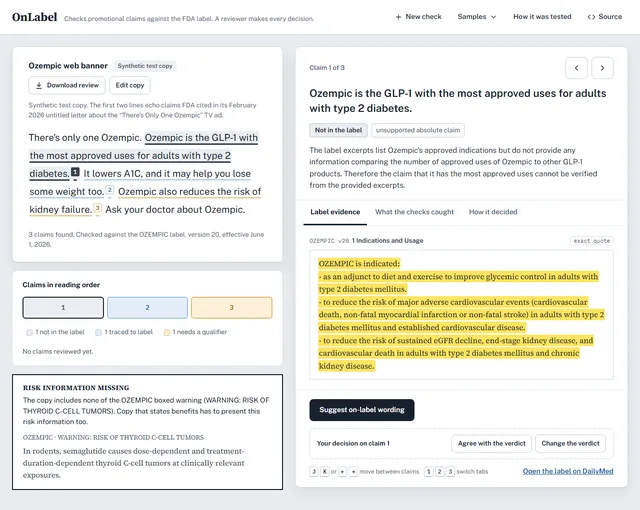
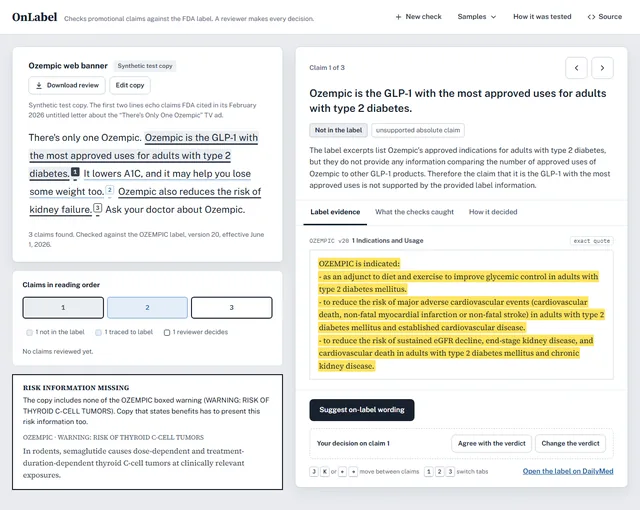
OnLabel: fresh screenshots of the live samples and results page
The samples were re-scored after the first captures, so the old images showed
claim 3 of the Ozempic banner as needing a qualifier and the results page with
the earlier numbers.

diff --git a/projects/onlabel.html b/projects/onlabel.html
@@ -121,7 +121,7 @@
             </tbody>
           </table></div>
           <p>The 3 faithful claims the strongest model did not trace went to a reviewer: two quotes did not match a label table word for word, and one left the study length out of its quotes. Two guard rules were written after seeing failures that include the test split, so the 2 → 0 is not a blind result; a holdout of claims FDA cited in its letters is the blind test still to run. Full results, intervals and every failure are in <a href="https://github.com/Maaadhavq/onlabel/blob/main/EVALS.md">EVALS.md</a>.</p>
-          <figure class="case-fig"><span class="frame"><img src="/assets/img/onlabel-evals-1280.webp" srcset="/assets/img/onlabel-evals-640.webp 640w, /assets/img/onlabel-evals-1280.webp 1280w" sizes="(min-width: 50rem) 44rem, 100vw" width="1280" height="3134" loading="lazy" decoding="async" alt="OnLabel's How it was tested page, with benchmark, retrieval and red-team results"></span><figcaption>The live site's &ldquo;How it was tested&rdquo; page.</figcaption></figure>
+          <figure class="case-fig"><span class="frame"><img src="/assets/img/onlabel-evals-1280.webp" srcset="/assets/img/onlabel-evals-640.webp 640w, /assets/img/onlabel-evals-1280.webp 1280w" sizes="(min-width: 50rem) 44rem, 100vw" width="1280" height="2988" loading="lazy" decoding="async" alt="OnLabel's How it was tested page, with benchmark, retrieval and red-team results"></span><figcaption>The live site's &ldquo;How it was tested&rdquo; page.</figcaption></figure>
         </div>
       </section>
       <section aria-labelledby="onlabel-5">
